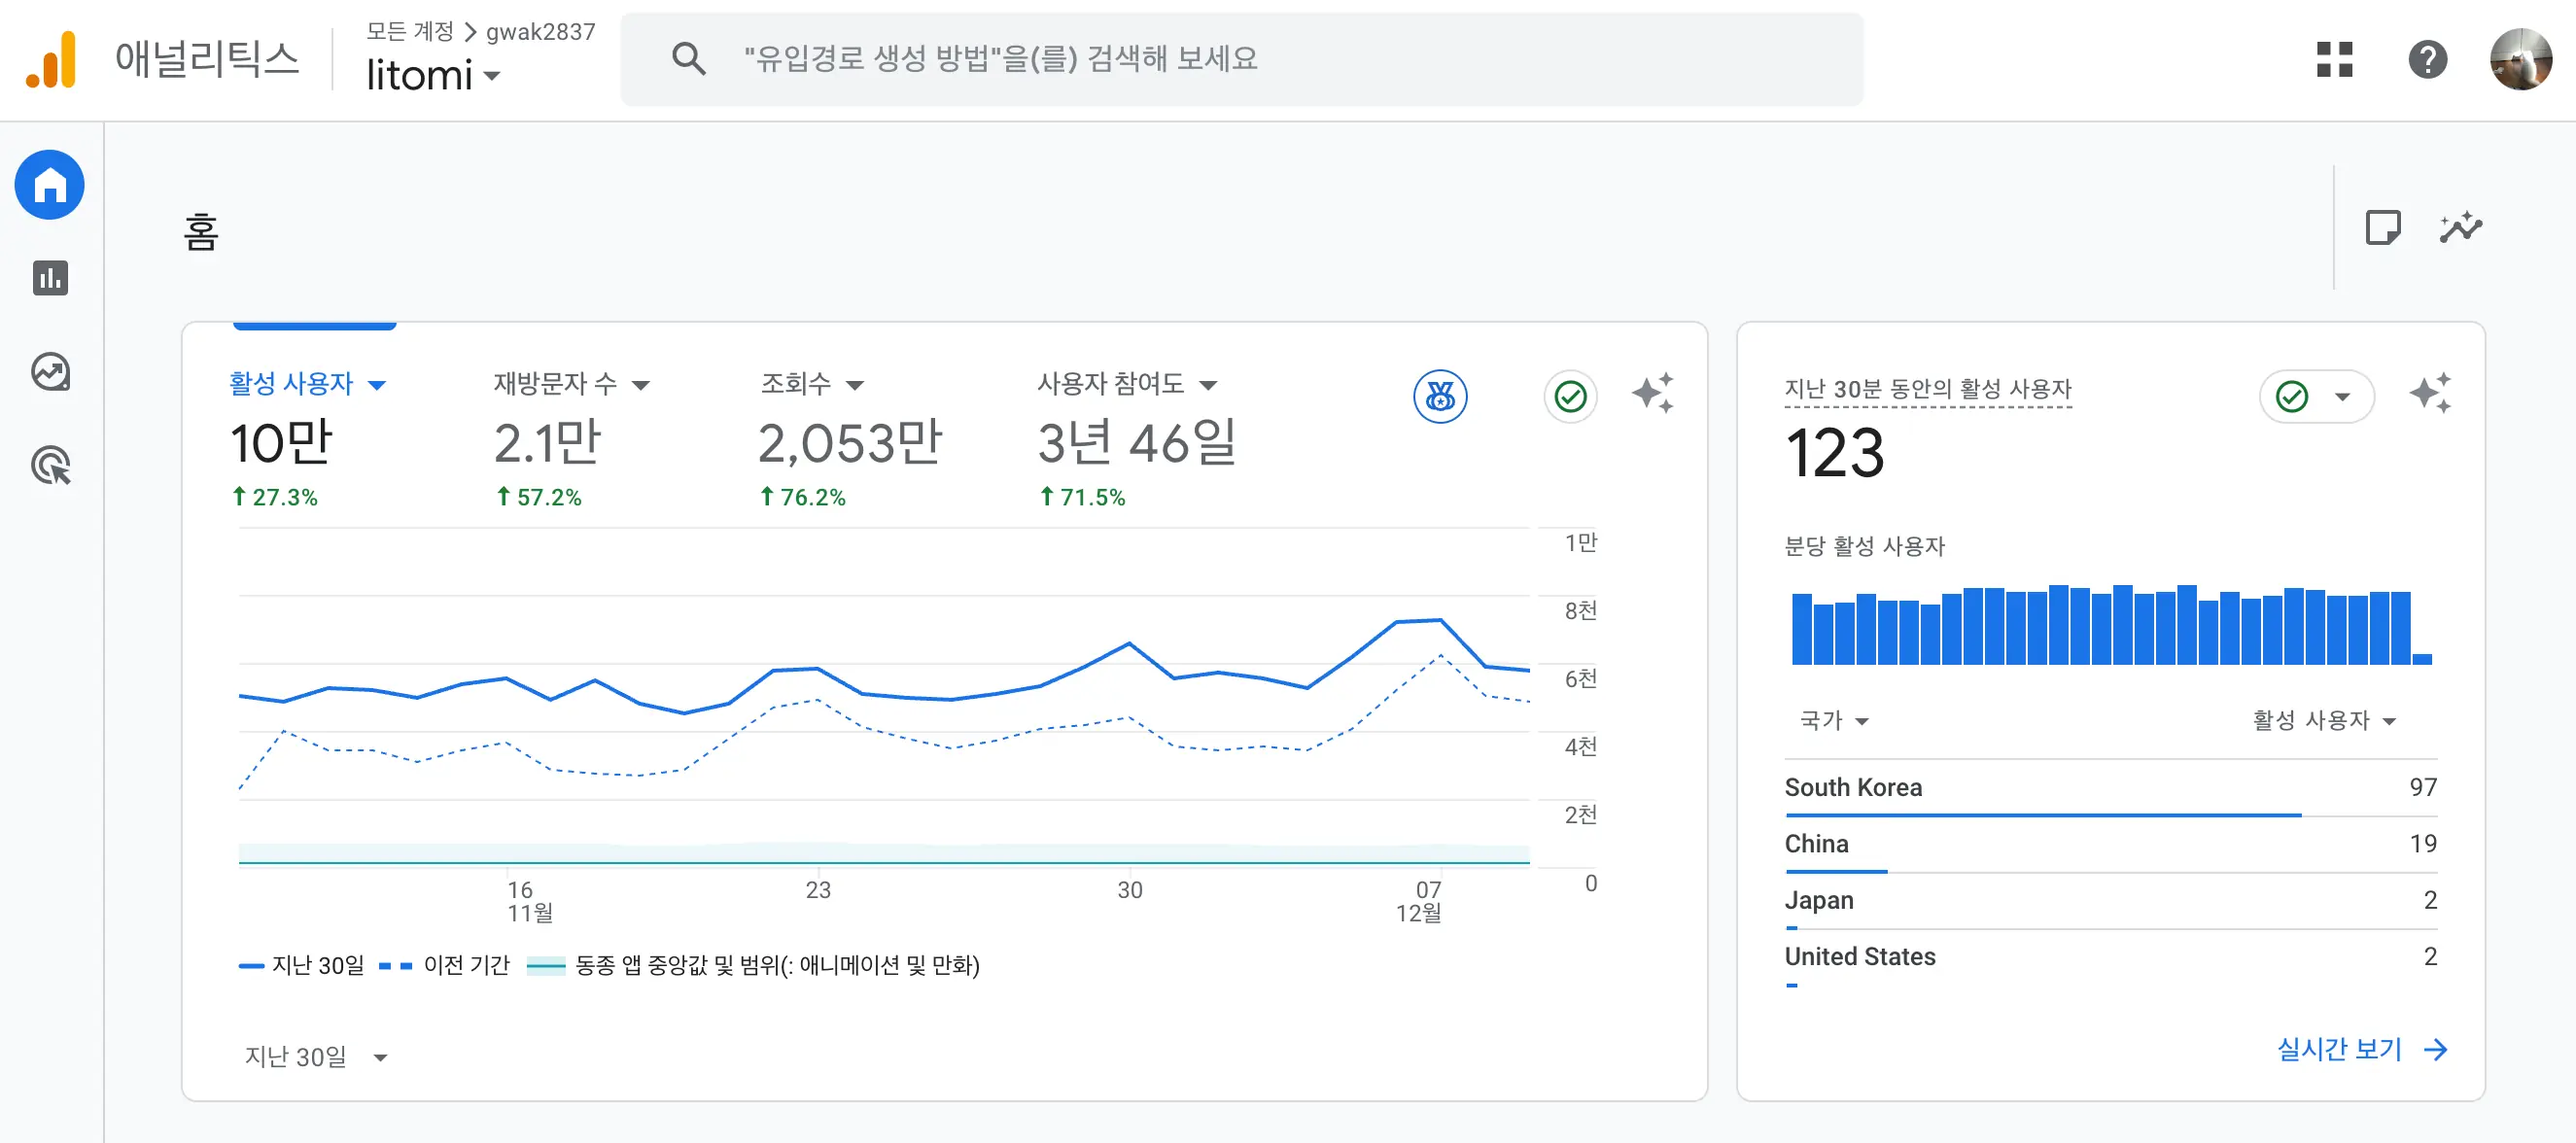
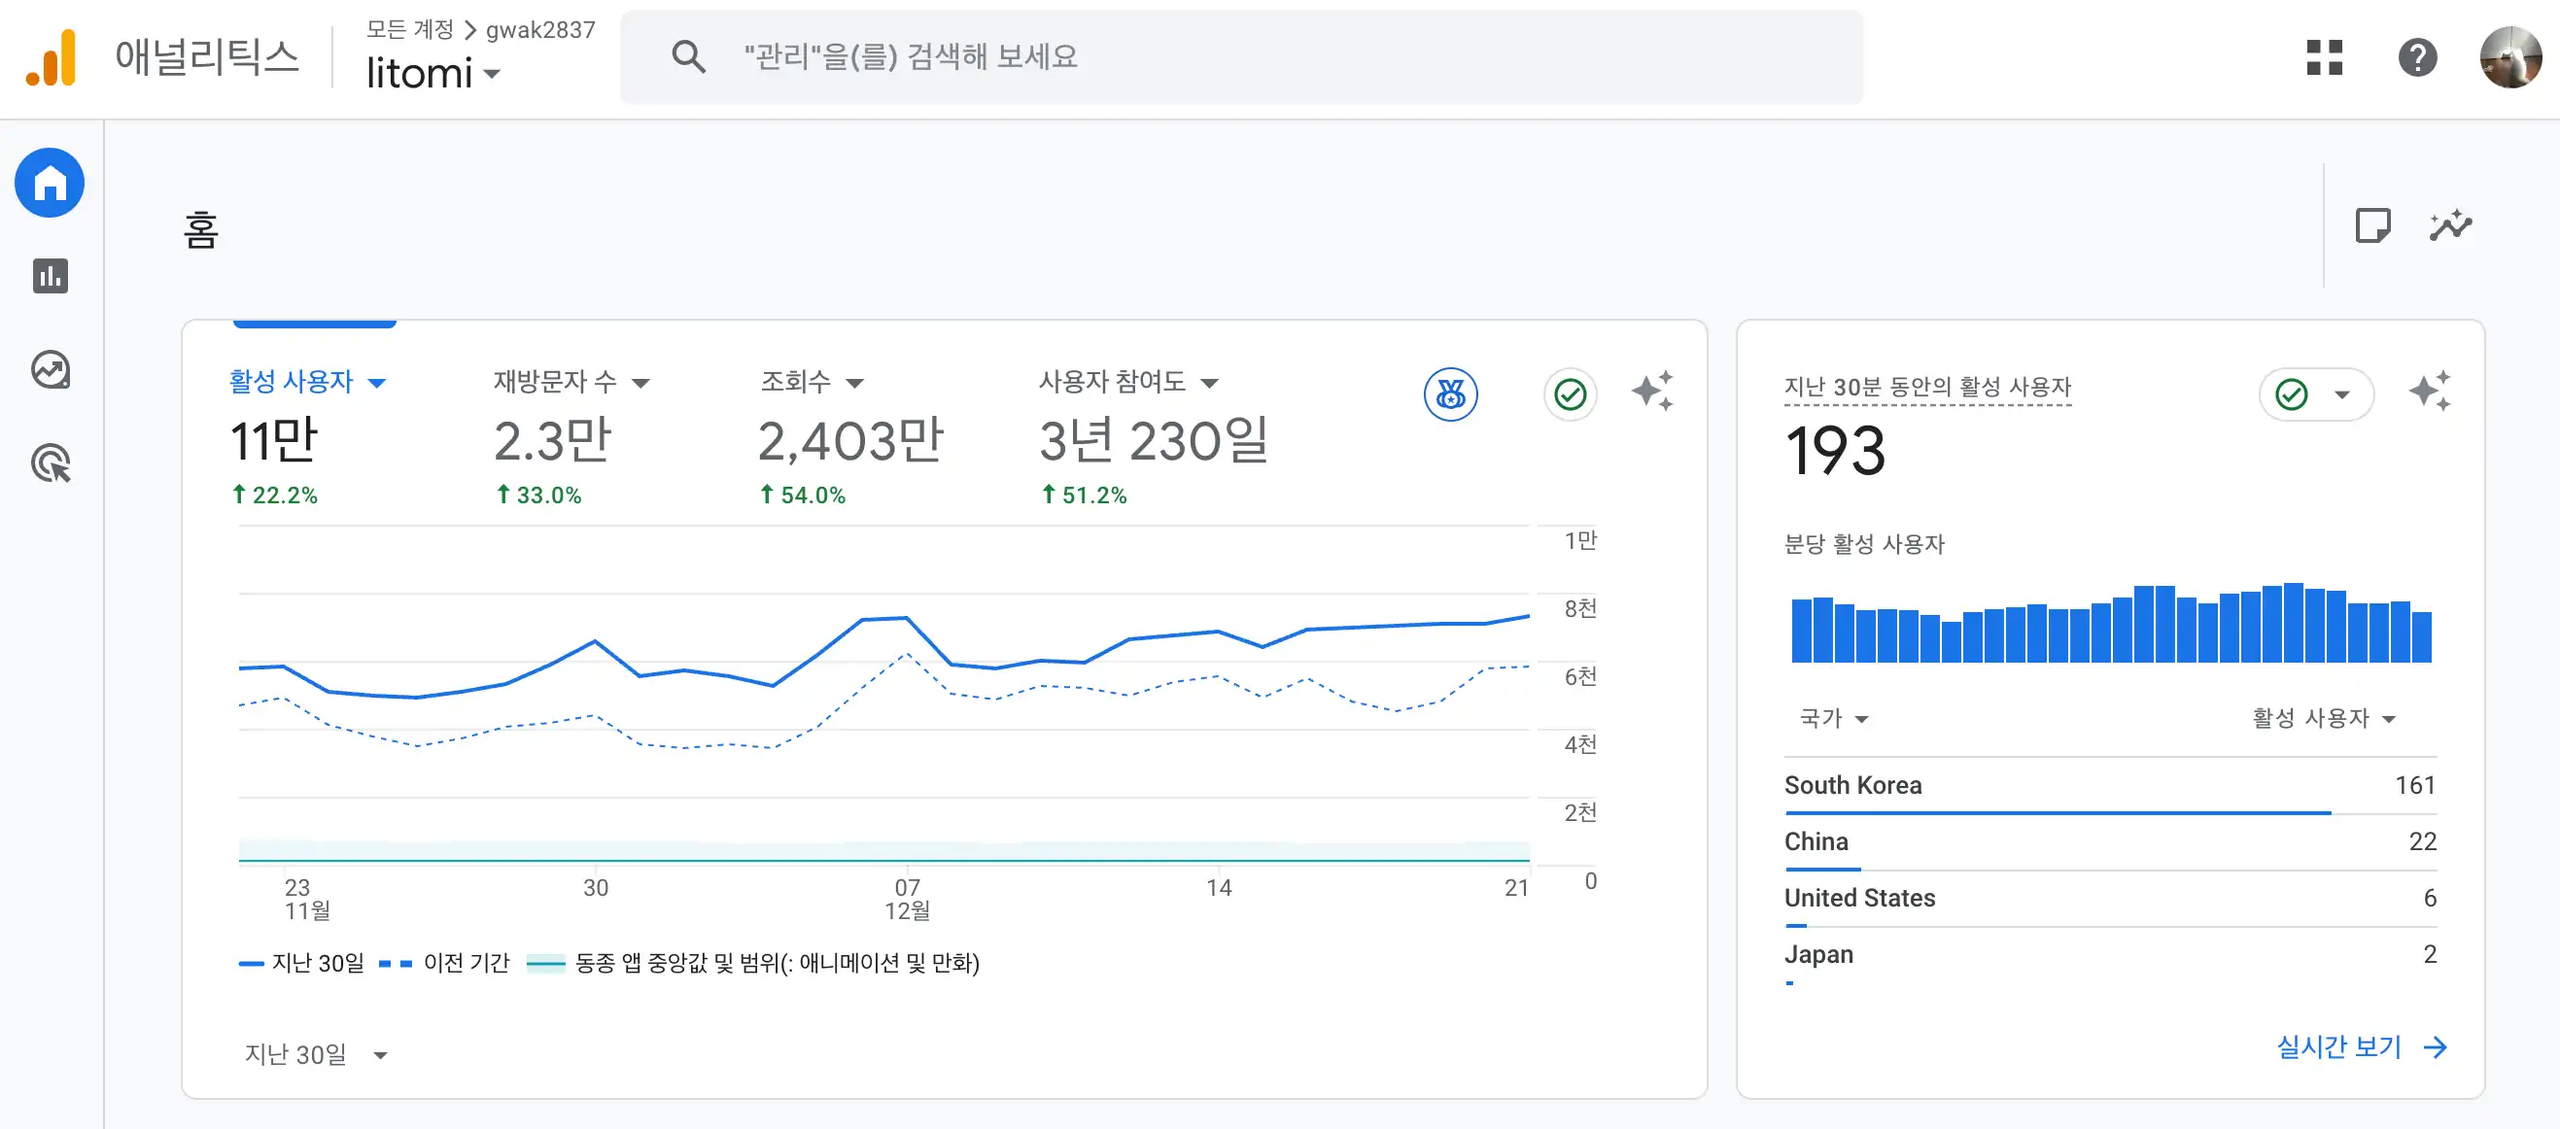
fix: update

diff --git a/src/app/[lang]/dictionary/general.tsx b/src/app/[lang]/dictionary/general.tsx
@@ -2,10 +2,10 @@ import 'server-only'
 import { formatDate } from './utils'
 
 export const 작성일 = {
-  ko: formatDate(2025, 12, 10, 'ko'),
-  en: formatDate(2025, 12, 10, 'en'),
-  zh: formatDate(2025, 12, 10, 'zh'),
-  ja: formatDate(2025, 12, 10, 'ja'),
+  ko: formatDate(2025, 12, 26, 'ko'),
+  en: formatDate(2025, 12, 26, 'en'),
+  zh: formatDate(2025, 12, 26, 'zh'),
+  ja: formatDate(2025, 12, 26, 'ja'),
 }
 
 export const generalDict = {
@@ -56,10 +56,10 @@ export const generalDict = {
     ja: '職務経歴',
   },
   경력기간: {
-    ko: `(2년 3개월, ${작성일.ko} 기준)`,
-    en: `(2 years 3 months, as of ${작성일.en})`,
-    zh: `(2年3个月，截至${작성일.zh})`,
-    ja: `(2年3ヶ月、${작성일.ja}基準)`,
+    ko: `(2년 4개월, ${작성일.ko} 기준)`,
+    en: `(2 years 4 months, as of ${작성일.en})`,
+    zh: `(2年4个月，截至${작성일.zh})`,
+    ja: `(2年4ヶ月、${작성일.ja}基準)`,
   },
   학력: {
     ko: '학력',

diff --git a/src/app/[lang]/dictionary/project.ts b/src/app/[lang]/dictionary/project.ts
@@ -8,10 +8,10 @@ export const projectDict = {
     ja: '個人プロジェクト',
   },
   googleAnalytics: {
-    ko: '10.2만',
-    en: '102K',
-    zh: '10.2万',
-    ja: '10.2万',
+    ko: '11.2만',
+    en: '112K',
+    zh: '11.2万',
+    ja: '11.2万',
   },
   amplitude: {
     ko: '26.1%',
@@ -20,9 +20,9 @@ export const projectDict = {
     ja: '26.1%',
   },
   cloudflareAnalytics: {
-    ko: '89.9%',
-    en: '89.9%',
-    zh: '89.9%',
-    ja: '89.9%',
+    ko: '90.5%',
+    en: '90.5%',
+    zh: '90.5%',
+    ja: '90.5%',
   },
 }
